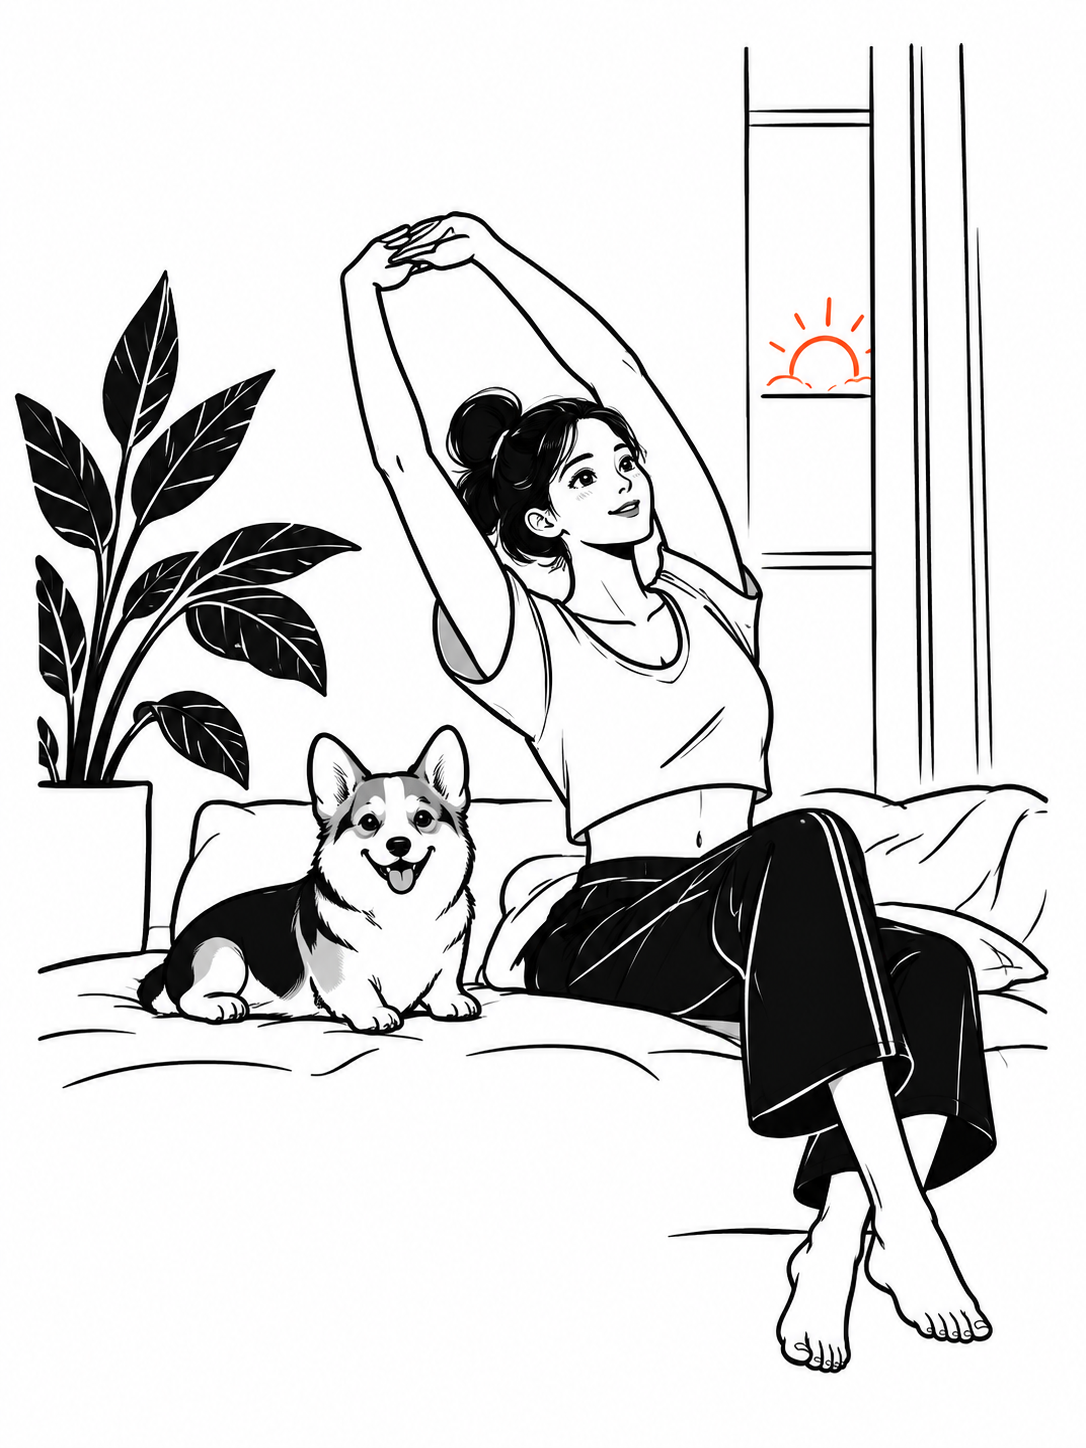
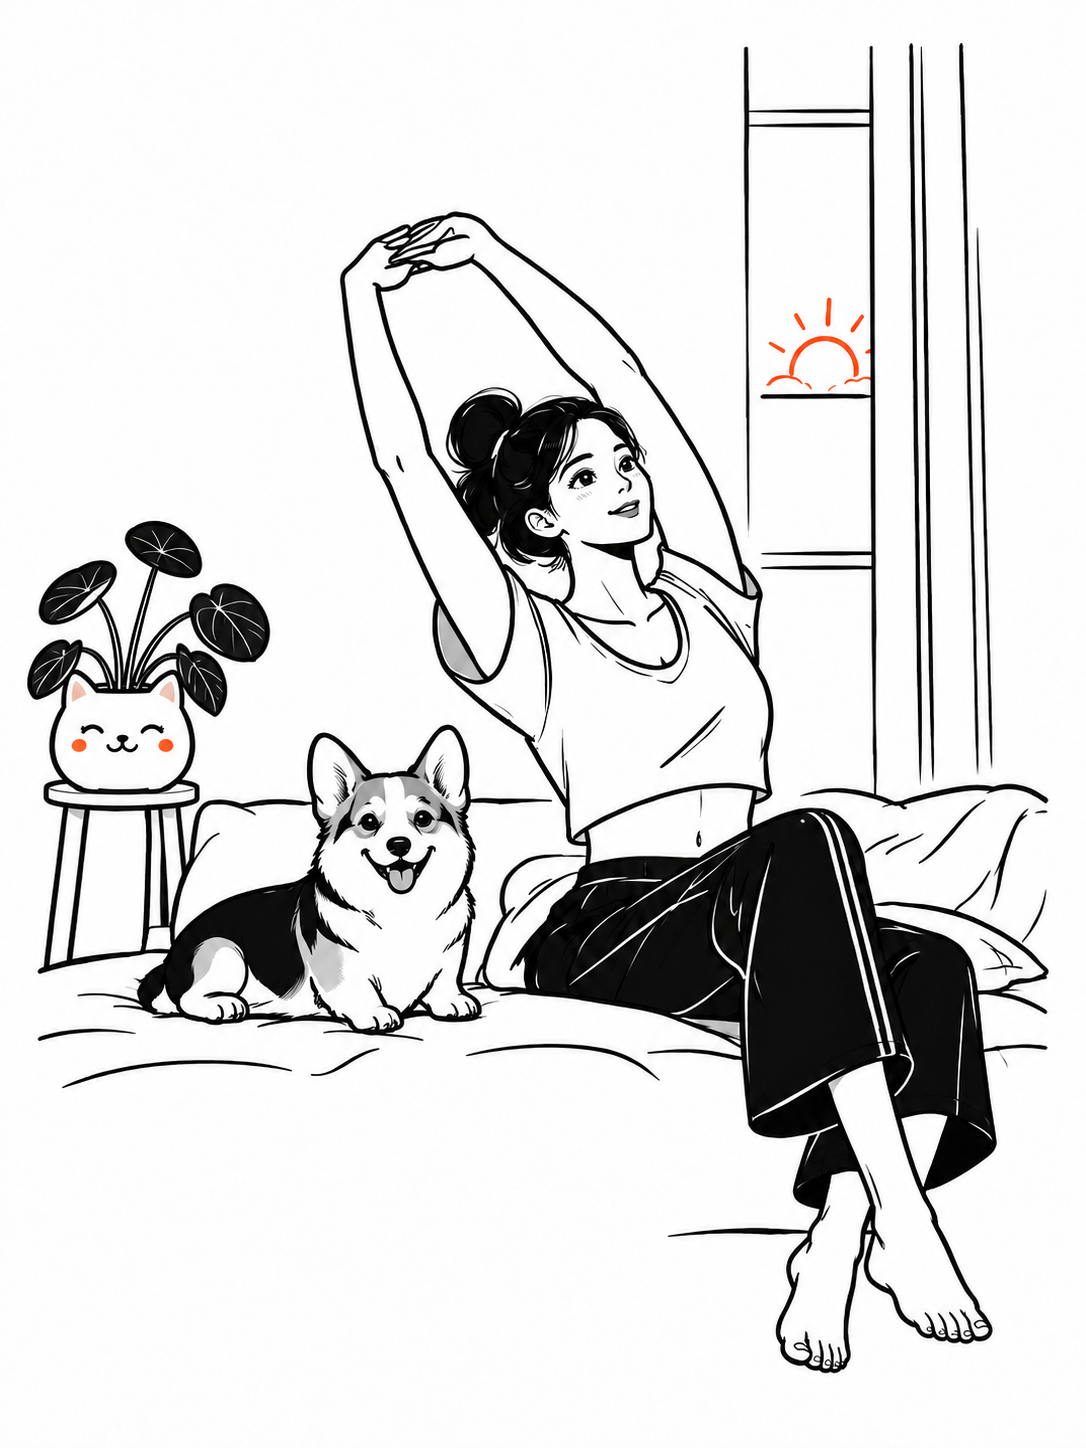
design: 更新首页盆栽插画并保存小程序图标方案

diff --git a/design/app-icon-runner-v1-prompt.md b/design/app-icon-runner-v1-prompt.md
@@ -1,0 +1,20 @@
+# Move&See 跑步女性图标 v1
+
+生成方式：内置 image_gen，2026-09-27。
+
+成品：app-icon-runner-v1.png。参考当前 DESIGN.md、design/README.md 及已有跑步插画的视觉风格。仅新增图标素材，未替换页面资源或上传微信后台。
+
+## 初始生成提示词
+
+Use case: logo-brand.
+Create ONE finished square app icon for Move&See, a calm personal exercise diary WeChat mini program. 1024 x 1024 square composition.
+Subject: a single adult athletic woman RUNNING forward energetically, wearing a sports baseball cap, a conspicuous HIGH black ponytail streaming behind her, a fitted sleeveless white athletic running top, black athletic running shorts, socks and running shoes. She has a strong healthy athletic build with visibly defined shoulders, biceps, and quadriceps/calves, expressed in a few confident anatomical contour lines. Natural, proportionate musculature. Confident friendly face, small relaxed smile, eyes looking forward. An unmistakable running gait, one knee coming forward and the other leg extending behind, arms pumping naturally in opposition.
+Style: refined black-and-white hand-drawn editorial sports illustration, organic clean confident ink outlines, bold graphic black hair and shorts, white clothing and skin with sparse black contour details. Adult elegant approachable character; not childish or photorealistic. The style should belong to a minimal white mobile app with illustrated everyday exercise, quiet whitespace, black buttons and a tiny vermilion brand accent.
+Palette: pure white background #FFFFFF, near-black ink #181917, a single solid orange-red accent #F05A35 on her running cap. All other elements monochrome. Flat colors, crisp edges.
+Composition: full body in a dynamic side / slight three-quarter running profile. Character visually centered, fills about 80 percent of the square while all cap, ponytail, arms, hands and both shoes remain safely inside the canvas. Strong readable silhouette at small app-icon sizes; separate ponytail silhouette from shoulders; keep linework selective. Bold outer contours and minimal inner detail. Keep essential features well inside a centered circular safe area.
+Mood: uplifting, energetic, resilient, joyful everyday movement.
+Constraints: exactly one woman, two arms and two legs, natural anatomy. No text, no wordmark, no letters, no border, no phone mockup, no icon presentation sheet, no additional icons. No scenery, plants, ground line, decorative circles, speed-line clutter, gradients, drop shadows or textures. Deliver just the single polished icon image.
+
+## 最终调整提示词
+
+Use case: precise-object-edit. Turn this exact supplied runner illustration into the final square app icon. Preserve the woman's identity, face, smile, orange-red sports cap, high black ponytail, white running top, black shorts, visible athletic muscles, shoes, drawing style and running pose exactly. Make only two changes: (1) place her on a completely SOLID OPAQUE PURE WHITE #FFFFFF square background, with no transparency anywhere in the background; (2) uniformly scale down the entire figure slightly so the whole figure occupies 78 percent of the canvas height, center it optically, and leave clean white safety margins on every side. Keep full head, ponytail, arms, legs and shoes visible and inside a centered circular app-icon crop. This is a finished square app icon canvas, not a transparent cutout. NO checkerboard, no black background, no scene, no added shadow, no text, no border, no UI mockup, no extra elements. Preserve artwork, only change background and scale/framing.

diff --git a/design/app-icon-runner-v2-prompt.md b/design/app-icon-runner-v2-prompt.md
@@ -1,0 +1,24 @@
+# Move&See 跑步女性图标 v2
+
+生成方式：内置 image_gen，2026-09-27。
+
+成品：app-icon-runner-v2.png。
+
+用户修正：上一版肌肉太夸张；模仿当前小程序的人物和环境场景，与概念图风格一致。
+
+参考：miniprogram/assets/today-running.png（人物及场景）、design/style-reference-v1.png（手绘风格）。只新增图标素材，未替换应用插画或上传微信后台。
+
+## 最终提示词
+
+Use case: style-transfer / precise-object-edit.
+Create ONE revised square mini-program icon illustration based closely on the attached references.
+Reference image 1 is the authoritative CHARACTER AND ENVIRONMENT source: the app's current female jogger, with white running top, black leggings, high black ponytail, running rightwards on a park path with a simple railing at left, low plants and understated distant buildings at right.
+Reference image 2 is the authoritative STYLE reference: the Move&See concept design's gentle black-and-white hand-drawn everyday exercise illustrations, relaxed and friendly with abundant clean white space. Use ONLY its illustration style; never reproduce the phone screens, UI, text, or multiple panels.
+
+Primary correction: the prior icon looked frighteningly muscular. The woman must now have the same natural slender healthy everyday body proportions as reference 1, smooth softly drawn arms, modest narrow shoulders, normal slim legs in black leggings. REMOVE ALL muscle-definition marks, bulging biceps, bodybuilder thighs, sculpted abs and anatomical shading. She should look like the friendly woman already in this app, relaxed and lightly jogging, not an elite bodybuilder or superhero. Copy the existing reference character's approachable face and gentle forward-looking expression.
+
+Keep the familiar figure and environment: a single adult woman jogging to the right with a trailing high ponytail, simple white sleeveless sports top, black ankle-length running leggings, white socks and simple running shoes. Add a small softly drawn vermilion-orange baseball running cap, with her high ponytail emerging naturally behind it. Draw her arms pumping naturally and a light springy running gait. Keep the park path, short railing at left, a few low leafy plants and the faint simplified sage-gray city silhouettes at right. Preserve the source's scene arrangement and airy feeling; the background supports the woman and never dominates her.
+
+Style and palette: gentle fine-to-medium hand-drawn black ink outlines, clean line variation, limited flat black areas for hair and leggings, sparse delicate inner lines, mostly black and white, very small muted sage-green plant/building accents and a single restrained orange-red cap. Soft friendly editorial illustration matching the concept image. Do not use thick comic-book anatomy outlines, dense shading, 3D, photo realism, bright multi-colour cartoon, chibi, gradients or textured paper.
+Composition: a finished SQUARE app-icon artwork with a completely SOLID OPAQUE WHITE #FFFFFF background, not a transparent cutout. Full figure centered and prominent, head/ponytail/shoes all visible with comfortable white margin; scene concentrated in the lower third, generous white space above and around, suitable for small display. The character's overall height about 72-78 percent of the canvas. Simplify distant scene details for clarity while keeping the familiar park setting.
+No words, no letters, no wordmark, no border, no UI, no phone frame, no contact sheet, no added symbols or decorations. Exactly one woman in one coherent scene.

diff --git a/docs/home-plant-verification.md b/docs/home-plant-verification.md
@@ -1,0 +1,33 @@
+# 首页可爱盆栽插画
+
+日期：2026-09-27。
+
+## 修改范围
+
+用户确认目标为首页 `morning-stretch.png` 中的盆栽。把左侧尖叶大盆栽替换为圆叶植物、笑脸猫咪花盆与细脚花架，以少量橙红色腮红呼应日出。人物伸展、柯基、床铺、窗户与整体黑白手绘风格沿用原图。
+
+仅替换既有插画素材，补充 `DESIGN.md` 的视觉约定。页面 WXML、WXSS、JS、导航及云端数据逻辑均未修改。
+
+## 素材检查
+
+- 使用内置 imagegen 编辑，原图作为编辑目标。
+- 项目素材：`miniprogram/assets/morning-stretch.png`。
+- 新旧素材尺寸相同：1086 × 1448，3:4，沿用首页 `aspectFit`。
+- 已目视检查：花盆面部可见，未遮挡柯基；人物两臂、双手、双腿及双脚完整，窗外日出与原有留白保留。
[1 lines of base64/hex data omitted]
+
+## 模拟器验证
+
+本轮未完成原生模拟器视觉验收。CLI 登录与版本检查通过，但项目列表为空，运行时查询返回 `cant find runtimeid by projectpath`；打开项目的命令未取得完成结果，因此没有编译、导航、设备切换或生成截图。本轮没有读取业务记录，也没有进行真机验证、上传或发布。
+
+本地已完成 PNG 格式与尺寸检查、素材路径引用核对、插画目视检查，`git diff --check` 通过。此处不将图片检查等同于模拟器页面验收。
+
+## 编辑提示词
+
+```text
+Use case: precise-object-edit.
+Edit target: the supplied portrait black-and-white line illustration used in the Move&See home screen.
+Primary request: replace ONLY the large severe pointed-leaf potted plant at the far LEFT of the image with a charming, rounded little houseplant in a cute expressive ceramic pot. Make the plant visibly more lovable, less heavy and less boring while feeling native to this refined hand-drawn illustration.
+Plant direction: a compact sculptural plant with a few soft round coin-shaped leaves, gently curving stems, and a plump white rounded cat-shaped planter with two tiny ear bumps, little closed smiling eyes and a subtle curved mouth. A pair of tiny orange-red cheek marks echo the orange sun. Mostly black ink outlines and white space, with just two or three black leaf accents. A simple slender plant stand can keep it near the original plant's position behind the dog. The planter face should be visible above/left of the corgi, without covering the corgi. No additional animal or character.
+Invariants: preserve the woman's identity, expression, anatomy, hair, exact stretch pose, two arms and hands, clothing, legs and feet. Preserve the corgi, bed, pillows, window, curtains, orange sun, background and all composition outside the existing left plant region. Preserve the existing clean white background, crisp organic black pen linework and restrained orange-red accents. Do not stylize or redraw the woman or dog. Do not mirror or move the scene. Keep portrait 3:4 aspect ratio and original framing. This is an illustration asset only: NO text, UI, logos, border, sticker outline, panels, watermark, shadows or beige texture. Leave existing negative space intact.
+```

diff --git a/design/app-icon-runner-v4-prompt.md b/design/app-icon-runner-v4-prompt.md
@@ -1,0 +1,20 @@
+# Move&See 跑步女性图标 v4
+
+生成方式：内置 image_gen。以 app-icon-runner-v3.png 为编辑目标，将文字下移缩小，以适配居中圆形头像裁切。
+
+成品：app-icon-runner-v4.png，1254 × 1254。
+
+## 圆形裁切检查
+
+对成品进行只读像素检查：顶部文字的深色像素范围 x=384..870，y=101..179；居中内切圆之外的文字像素数为 0。换算至 144 × 144 显示尺寸，文字像素距圆边的最小径向余量约 5.9 像素。此为本地几何检查，未操作微信后台上传。
+
+## 最终提示词
+
+Use case: precise-object-edit / typography layout correction.
+Edit this exact square app icon to correct its brand-word placement for WeChat's circular avatar crop. The text is presently too close to the top and clipped by the inscribed circle.
+Change ONLY the lettering layout and its orange underline. Keep the runner, face, natural slender proportions, cap, high ponytail, sportswear, pose, park railing, plants, distant skyline, line art style, colors, and opaque white square background unchanged.
+
+Exact single-line text: "Move&See", no spaces, exact spelling/capitalization.
+Move the title DOWN and make it about 25 percent smaller than it is now. Center it horizontally. All black letter pixels must fit within a safe rectangular box: x = 29% to 71% of the canvas; y = 9% to 15.5% of the canvas. This box lies safely within the circular avatar. The topmost visible black letter pixels must be at least 9 percent of the image height below the top edge. Do NOT leave any old lettering at the original top edge.
+Retain the same elegant bold black serif font. Retain a much shorter orange-red curved underline beneath the LEFT part of the wordmark (roughly beneath "Move"), in the white space at x=32% to 49%, around y=17%, clear of the cap. The underline should be delicate. Make sure no text or underline touches the cap or hair.
+Do not add a visible circle, safety guides, crop border, UI or any other new element. Deliver one finished SQUARE upload image, not a circular file or mockup. The whole title must be completely visible after a centered circular crop, with generous safety space between letters and that invisible circle edge.

diff --git a/design/app-icon-runner-v3-prompt.md b/design/app-icon-runner-v3-prompt.md
@@ -1,0 +1,13 @@
+# Move&See 跑步女性图标 v3
+
+生成方式：内置 image_gen。基于 app-icon-runner-v2.png 添加准确文字 Move&See，黑色衬线字与橙红色下划线。
+
+成品：app-icon-runner-v3.png。
+
+## 最终提示词
+
+Use case: precise-object-edit, add exact brand lettering.
+Edit the supplied square illustration. Make only this addition: place the exact text "Move&See" in the existing white space at the top, horizontally centered above the runner.
+Text must read exactly Move&See: capital M, lowercase ove, ampersand &, capital S, lowercase ee; NO spaces on either side of &. One single line.
+Typography: elegant bold black serif lettering, like the refined editorial wordmark in this app's concept design; clear, readable, about 52-58 percent of the canvas width. Keep a comfortable margin above the text, and a clean gap between the lettering and the runner's cap. Add a small subtle hand-drawn orange-red curved underline directly beneath the wordmark, matching the orange-red cap and the app's brand underline.
+Preserve the entire existing illustration unchanged: the same natural slender friendly adult woman, face, high ponytail, orange-red cap, white top, black leggings, running pose, railing, park plants, muted sage city skyline, white background, black linework, exact full-body composition and square canvas. Do not increase muscle definition. Do not move, crop, redraw or obscure the character or background. Add only the exact requested wordmark and its small underline in the blank top area. No other text, logos, border or UI. Solid opaque white background.

diff --git a/DESIGN.md b/DESIGN.md
@@ -4,6 +4,8 @@
 
 白底、黑白日常运动插画、衬线标题、低饱和说明文字、黑色圆形主按钮、少量橙红色点缀。品牌文字使用“Move&See”。本页不引入其他画面的鼠尾草绿卡片。
 
+首页插画的盆栽采用圆叶植物与笑脸猫咪花盆，橙红色腮红呼应窗外日出，让场景更可爱；沿用人物伸懒腰、柯基和黑白手绘构图（2026-09-27）。
+
 首页为 Operate 场景：一句问候、两行说明、主体插画、唯一入口“看看今天”。使用系统原生导航和胶囊，不模拟概念图的省略号。文字、背景、箭头、按钮、品牌下划线均由 WXML/WXSS 绘制；只有插画使用位图。中文衬线字体按设备可用字体降级，不使用图片文字。
 
 短屏允许自然滚动，320px 使用较小字级与插画下限；按钮保持至少 100px，留底部安全区。
